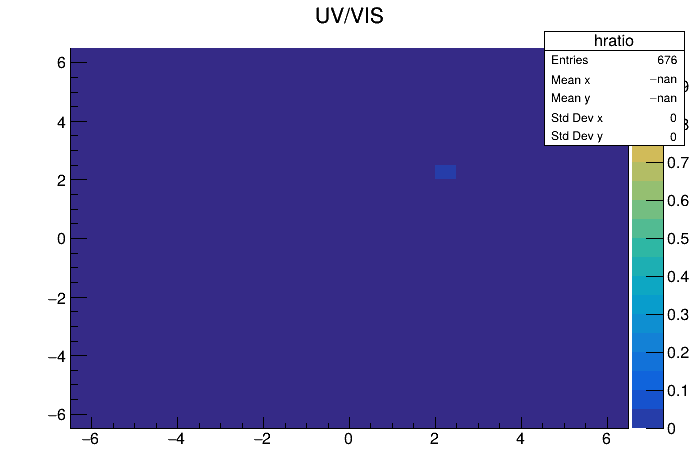
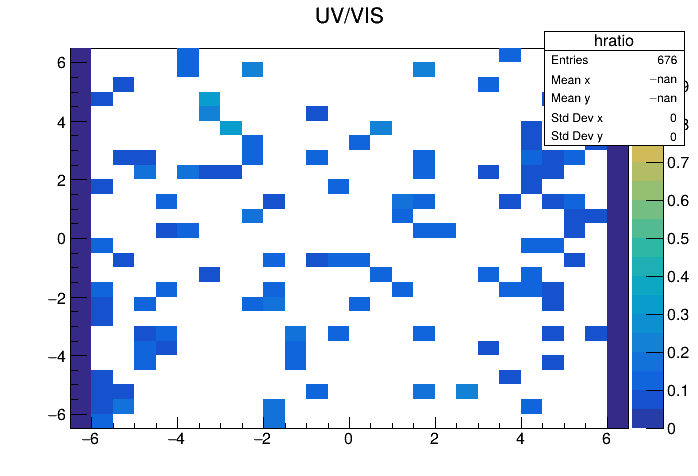
mod

diff --git a/project/src/DetectorConstruction.cc b/project/src/DetectorConstruction.cc
@@ -248,14 +248,22 @@ G4VPhysicalVolume* DetectorConstruction::Construct()
     G4cout << "Vikuiti Efficiency: " << Vikuiti_efficiency << std::endl;
     G4Material* Reflector_mat = fNistManager->FindOrBuildMaterial(config_Reflector["material"].get<string>());
 
+    auto Vikuiti_isWLS = config_Reflector["isWLS"].get<int>();
     auto mpt_Reflector = new G4MaterialPropertiesTable();
 
-    mpt_Reflector->AddProperty("WLSABSLENGTH",energies_vikuiti_abslength,abslength_vikuiti , n_vikuiti_abslength);
     mpt_Reflector->AddProperty("RINDEX", {0.1*eV,15*eV} , {Vikuiti_refractionindex,Vikuiti_refractionindex},2);
-    mpt_Reflector->AddProperty("WLSCOMPONENT", energies_vikuiti_spec, spec_vikuiti, n_vikuiti_spec);
-    mpt_Reflector->AddConstProperty("WLSTIMECONSTANT",0.2*ns);
-    mpt_Reflector->AddConstProperty("WLSMEANNUMBERPHOTONS",Vikuiti_efficiency);
-
+    if(Vikuiti_isWLS==0)
+    {
+        mpt_Reflector->AddProperty("ABSLENGTH",energies_vikuiti_abslength,abslength_vikuiti , n_vikuiti_abslength);
+    }
+    else
+    {
+        mpt_Reflector->AddProperty("WLSABSLENGTH",energies_vikuiti_abslength,abslength_vikuiti , n_vikuiti_abslength);
+        mpt_Reflector->AddProperty("WLSCOMPONENT", energies_vikuiti_spec, spec_vikuiti, n_vikuiti_spec);
+        mpt_Reflector->AddConstProperty("WLSTIMECONSTANT",0.2*ns);
+        mpt_Reflector->AddConstProperty("WLSMEANNUMBERPHOTONS",Vikuiti_efficiency);
+    }
+  
     Reflector_mat->SetMaterialPropertiesTable(mpt_Reflector);
 
     G4Box* solidVikuitiLong = new G4Box("VikuitLong",0.5*cryostat_sizeX, 0.5*(cryostat_sizeY-2*AnodeTickness), 0.5*Reflector_thickness);
@@ -285,7 +293,10 @@ G4VPhysicalVolume* DetectorConstruction::Construct()
     surface_vikuiti_lar->SetFinish(polished);
     G4MaterialPropertiesTable* mpt_VikuitiLar_Surface = new G4MaterialPropertiesTable();
     mpt_VikuitiLar_Surface->AddProperty("REFLECTIVITY",energies_vikuiti,r_vikuiti,n_vikuiti);
-    mpt_VikuitiLar_Surface->AddProperty("TRANSMITTANCE",{1.0*eV,15*eV},{1,1},2);
+    if(Vikuiti_isWLS==1)
+    {
+        mpt_VikuitiLar_Surface->AddProperty("TRANSMITTANCE",{1.0*eV,15*eV},{1,1},2);
+    }
     surface_vikuiti_lar->SetMaterialPropertiesTable(mpt_VikuitiLar_Surface);
 
     G4OpticalSurface* surface_vikuiti_cryo = new G4OpticalSurface("surface_vikuiti_cryo");
@@ -294,8 +305,8 @@ G4VPhysicalVolume* DetectorConstruction::Construct()
     surface_vikuiti_cryo->SetFinish(polished);
     G4MaterialPropertiesTable* mpt_VikuitiCryo_Surface = new G4MaterialPropertiesTable();
     mpt_VikuitiCryo_Surface->AddProperty("REFLECTIVITY",{1.0*eV,15*eV},{0,0},2);
-    surface_vikuiti_cryo->SetMaterialPropertiesTable(mpt_VikuitiCryo_Surface);
-    
+    surface_vikuiti_cryo->SetMaterialPropertiesTable(mpt_VikuitiCryo_Surface); 
+
     new G4LogicalBorderSurface("LiquidArgon-->AnodeTop", physicalWorld, physicalTopAnode , surface_anode_lar );
     new G4LogicalBorderSurface("LiquidArgon-->AnodeBottom", physicalWorld, physicalBottomAnode , surface_anode_lar );
     new G4LogicalBorderSurface("LiquidArgon-->VikuitiLong1", physicalWorld, physicalVikuitiLong1 , surface_vikuiti_lar );
@@ -376,9 +387,7 @@ G4VPhysicalVolume* DetectorConstruction::Construct()
         double x = (barH_eixoX1/2.0) * cos(phi);
         double y = (barH_eixoY1/2.0) * sin(phi);
         y = std::max(y, -(cut_value1 - barH_eixoY1/2));
-
         G4TwoVector point(x, y);
-
         // só adiciona se o ponto for diferente do anterior
         if (lastY != y) {
             ellipse1.push_back(point);
@@ -1068,8 +1077,8 @@ G4VPhysicalVolume* DetectorConstruction::Construct()
                                 ,logicWorld,true,cont,false));
                         }    
                         new G4LogicalBorderSurface("World_to_SiPM", physicalWorld, sipm_physicals.back(), sipmSurface);
-                        new G4LogicalBorderSurface("Vikuti_to_SiPM1", physicalVikuitiLong1, sipm_physicals.back(), sipmSurface);
-                        new G4LogicalBorderSurface("Vikuti_to_SiPM2", physicalVikuitiLong2, sipm_physicals.back(), sipmSurface);
+                        new G4LogicalBorderSurface("Vikuti_to_SiPM1", physicalVikuitiLong1, sipm_physicals.back(), sipmSurfaceVikuiti);
+                        new G4LogicalBorderSurface("Vikuti_to_SiPM2", physicalVikuitiLong2, sipm_physicals.back(), sipmSurfaceVikuiti);
                     }
                 }
                 cont++;
@@ -1106,8 +1115,8 @@ G4VPhysicalVolume* DetectorConstruction::Construct()
                                 ,logicWorld,true,cont,false));
                         }    
                         new G4LogicalBorderSurface("World_to_SiPM", physicalWorld, sipm_physicals.back(), sipmSurface);
-                        new G4LogicalBorderSurface("Vikuti_to_SiPM1", physicalVikuitiEnd1, sipm_physicals.back(), sipmSurface);
-                        new G4LogicalBorderSurface("Vikuti_to_SiPM2", physicalVikuitiEnd2, sipm_physicals.back(), sipmSurface);
+                        new G4LogicalBorderSurface("Vikuti_to_SiPM1", physicalVikuitiEnd1, sipm_physicals.back(), sipmSurfaceVikuiti);
+                        new G4LogicalBorderSurface("Vikuti_to_SiPM2", physicalVikuitiEnd2, sipm_physicals.back(), sipmSurfaceVikuiti);
 
                     }
                 }

diff --git a/project/analysis/analysis.cpp b/project/analysis/analysis.cpp
@@ -6,6 +6,7 @@
 #include <TCanvas.h>
 #include <iostream>
 #include <vector>
+#include <TLegend.h>
 
 void analysis(std::string filename="../build/Data.root")
 {
@@ -24,8 +25,9 @@ void analysis(std::string filename="../build/Data.root")
     tree->SetBranchAddress("PhotonDetectedVIS", &f);
     tree->SetBranchAddress("PhotonDetectedUV", &f2);
 
+    int number_files=1;
     float gain=40000.0/25000.0;
-    float ratio=1.0;
+    float ratio=5.0;
 
     Long64_t nentries = tree->GetEntries();
     for (Long64_t i=0; i<nentries; i++) 
@@ -34,11 +36,11 @@ void analysis(std::string filename="../build/Data.root")
 
         if(z<(-6) || z>6)
         {
-            ratio=gain;
+            ratio=gain/number_files;
         }
         else
         {
-            ratio=1.0;
+            ratio=1.0/number_files;
         }
 
         if(f>=1)
@@ -80,12 +82,22 @@ void analysis(std::string filename="../build/Data.root")
     double lightyield_avg=0;
     double lightyield_min=10000;
 
+    double cut_pe = 0.0;
+
     for(int i=1; i<=nx; i++)        
     {
         for(int j=1; j<=ny; j++)
         {
             mat_vis[i-1][j-1] = h2->GetBinContent(i,j);
             mat_uv[i-1][j-1] = h3->GetBinContent(i,j);
+            if(mat_vis[i-1][j-1]<cut_pe)
+            {
+                mat_vis[i-1][j-1]=0;
+            }
+             if(mat_uv[i-1][j-1]<cut_pe)
+            {
+                mat_uv[i-1][j-1]=0;
+            }
             mat_all[i-1][j-1] = mat_uv[i-1][j-1] +  mat_vis[i-1][j-1];
             buffer[i-1][j-1] = mat_uv[i-1][j-1]/(  mat_uv[i-1][j-1] + mat_vis[i-1][j-1] );
             myratio[i-1][j-1] = mat_uv[i-1][j-1]/(mat_vis[i-1][j-1] );
@@ -148,6 +160,54 @@ void analysis(std::string filename="../build/Data.root")
     TCanvas *c6 = new TCanvas();
     h1d->Draw();  // COLZ = color map
     c6->SaveAs("histFrancesco.png");
+
+   TH1D *h1dR = new TH1D("hist_R","R;R value;Entries", 200, -0.1 , 1.1 );
+    for(int i=0; i<nx; i++)        
+    {
+        for(int j=0; j<ny; j++)
+        {
+            h1dR->Fill(buffer[i][j]);
+        }
+    }
+
+    TH1D *h1dRin = new TH1D("hist_R_in","R (inner);R value;Entries", 200, -0.1 , 1.1 );
+    TH1D *h1dRout = new TH1D("hist_R_out","R (outer);R value;Entries", 200, -0.1 , 1.1 );
+
+    for(int i=0; i<nx; i++)        
+    {
+    for(int j=0; j<ny; j++)
+    {
+        if(i!=0 && i!=(nx-1))
+            h1dRin->Fill(buffer[i][j]);
+        else
+            h1dRout->Fill(buffer[i][j]);
+    }
+    }
+
+    TCanvas *c7 = new TCanvas("c7","R distributions",800,600);
+    c7->SetGrid();
+
+    h1dR->SetLineColor(kBlack);
+    h1dR->SetLineWidth(2);
+    h1dRin->SetLineColor(kBlue+1);
+    h1dRin->SetLineWidth(2);
+    h1dRout->SetLineColor(kRed+1);
+    h1dRout->SetLineWidth(2);
+
+    h1dR->Draw("HIST");
+    h1dRin->Draw("HIST SAME");
+    h1dRout->Draw("HIST SAME");
+
+    TLegend *leg = new TLegend(0.65,0.7,0.88,0.88);
+    leg->AddEntry(h1dR,"All entries","l");
+    leg->AddEntry(h1dRin,"Inner region","l");
+    leg->AddEntry(h1dRout,"Outer region","l");
+    leg->SetBorderSize(0);
+    leg->SetFillStyle(0);
+    leg->Draw();
+
+    c7->SaveAs("histRATIO.png");
+
 
 }
 

diff --git a/project/src/PrimaryGeneratorAction.cc b/project/src/PrimaryGeneratorAction.cc
@@ -71,9 +71,9 @@ void PrimaryGeneratorAction::GeneratePrimaries(G4Event* anEvent)
             fParticleGun->SetParticleEnergy(7.08*eV);  //175nm
         }
 
-        G4double x_pos = 0*m; //(-0.25 + 0.5*G4UniformRand())*m;
-        G4double y_pos = 2*m; //(-1+2*G4UniformRand())*cryostat_sizeY/2;
-        G4double z_pos = 2*m; //(-1+2*G4UniformRand())*cryostat_sizeZ/2;
+        G4double x_pos = 0*m;//(-0.25 + 0.5*G4UniformRand())*m;
+        G4double y_pos = 0*m;// (-1+2*G4UniformRand())*cryostat_sizeY/2;
+        G4double z_pos = 0*m;//(-1+2*G4UniformRand())*cryostat_sizeZ/2;
         G4String targetVolumeName = "argon";
         G4ThreeVector pos;
         pos = G4ThreeVector(x_pos, y_pos, z_pos);
@@ -92,7 +92,7 @@ void PrimaryGeneratorAction::GeneratePrimaries(G4Event* anEvent)
                         ->GetNavigatorForTracking()
                         ->LocateGlobalPointAndSetup(pos);
               
-        }while (!volume || std::string(volume->GetName()).find(targetVolumeName) == std::string::npos);
+        }while (!volume || std::string(volume->GetName()).find(targetVolumeName) == std::string::npos); 
 
         fParticleGun->SetParticlePosition(G4ThreeVector(x_pos,y_pos,z_pos));
 
